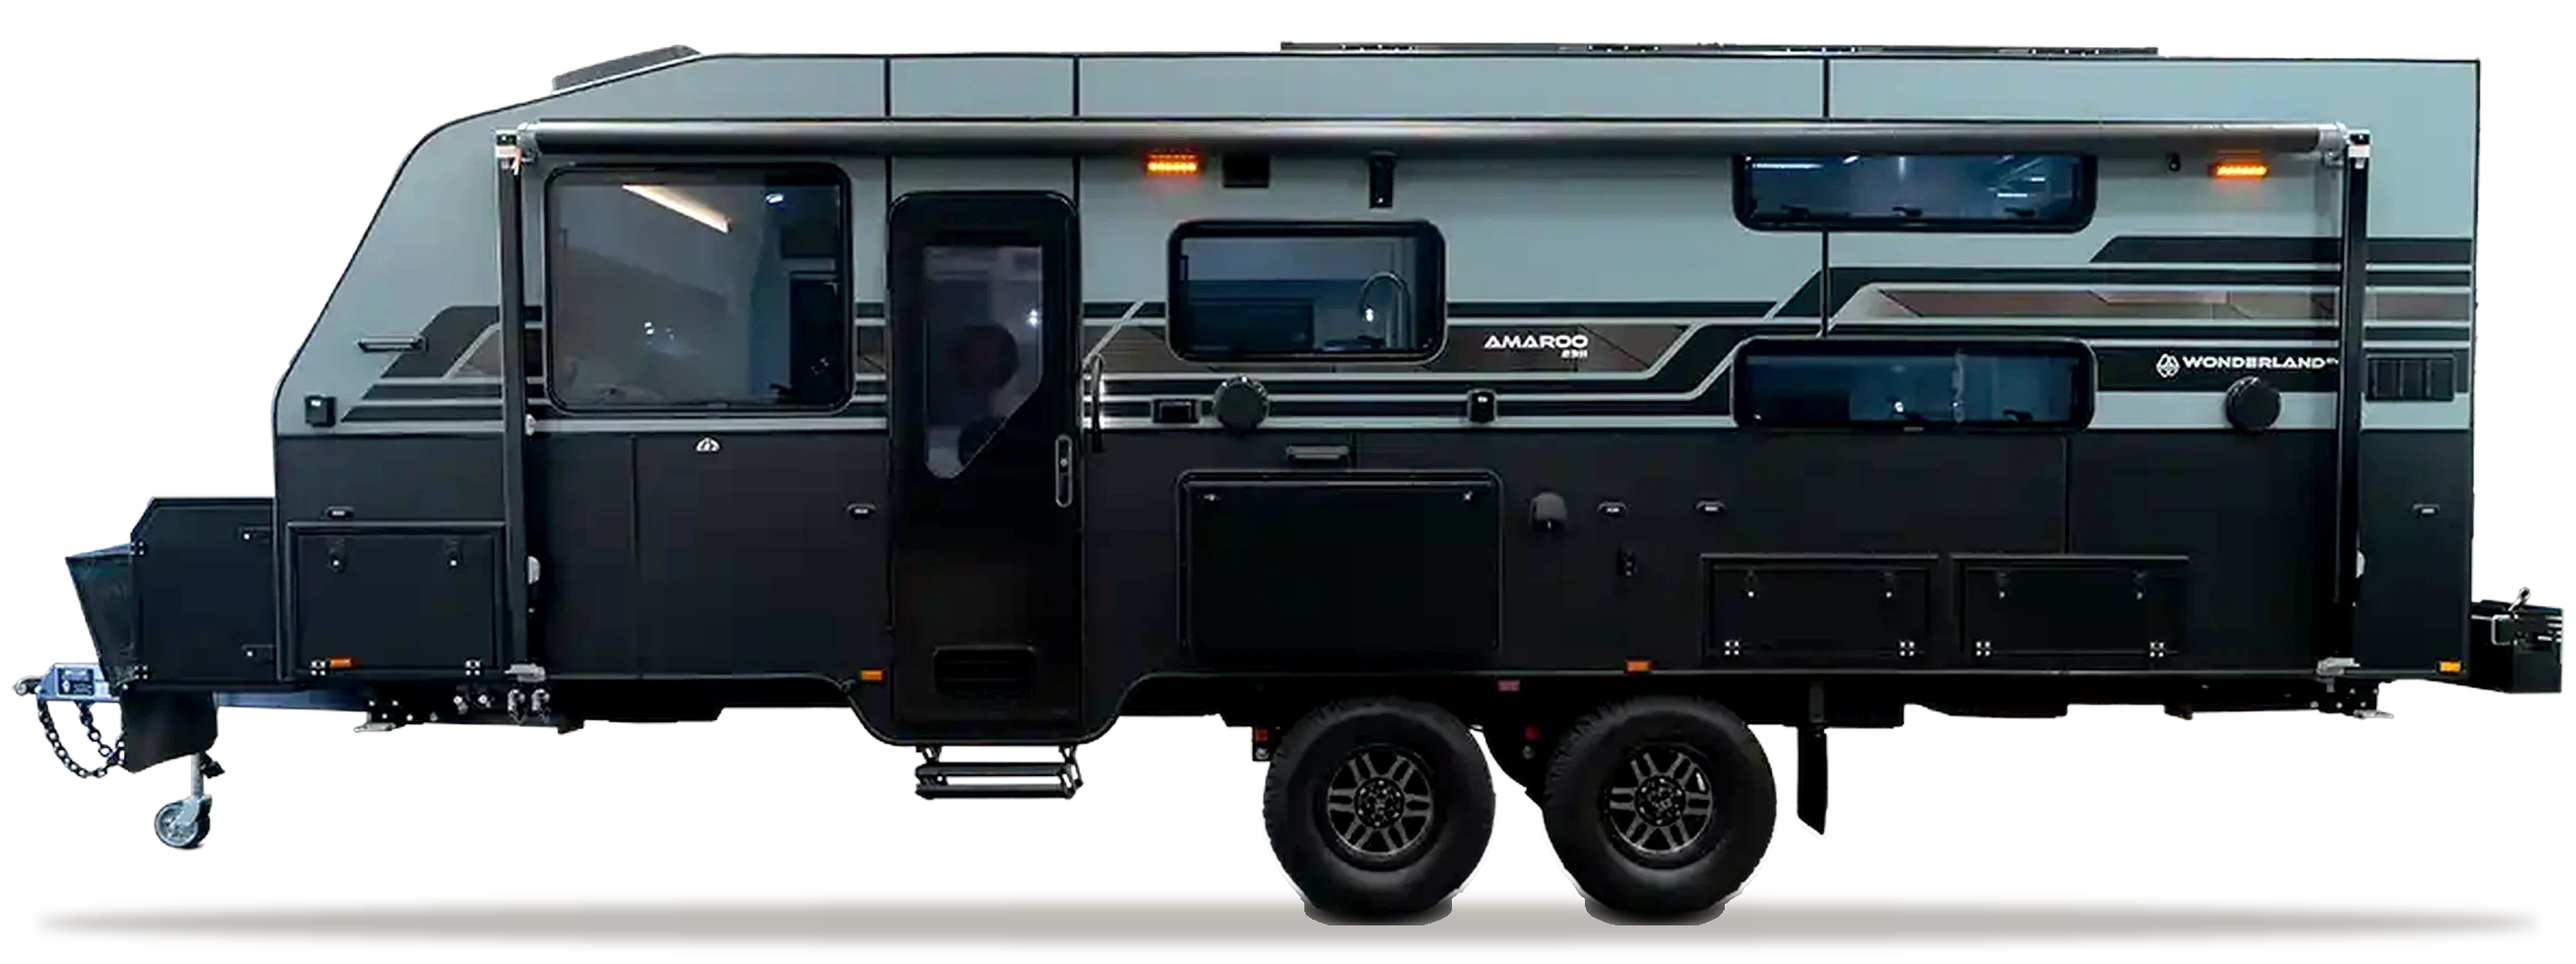
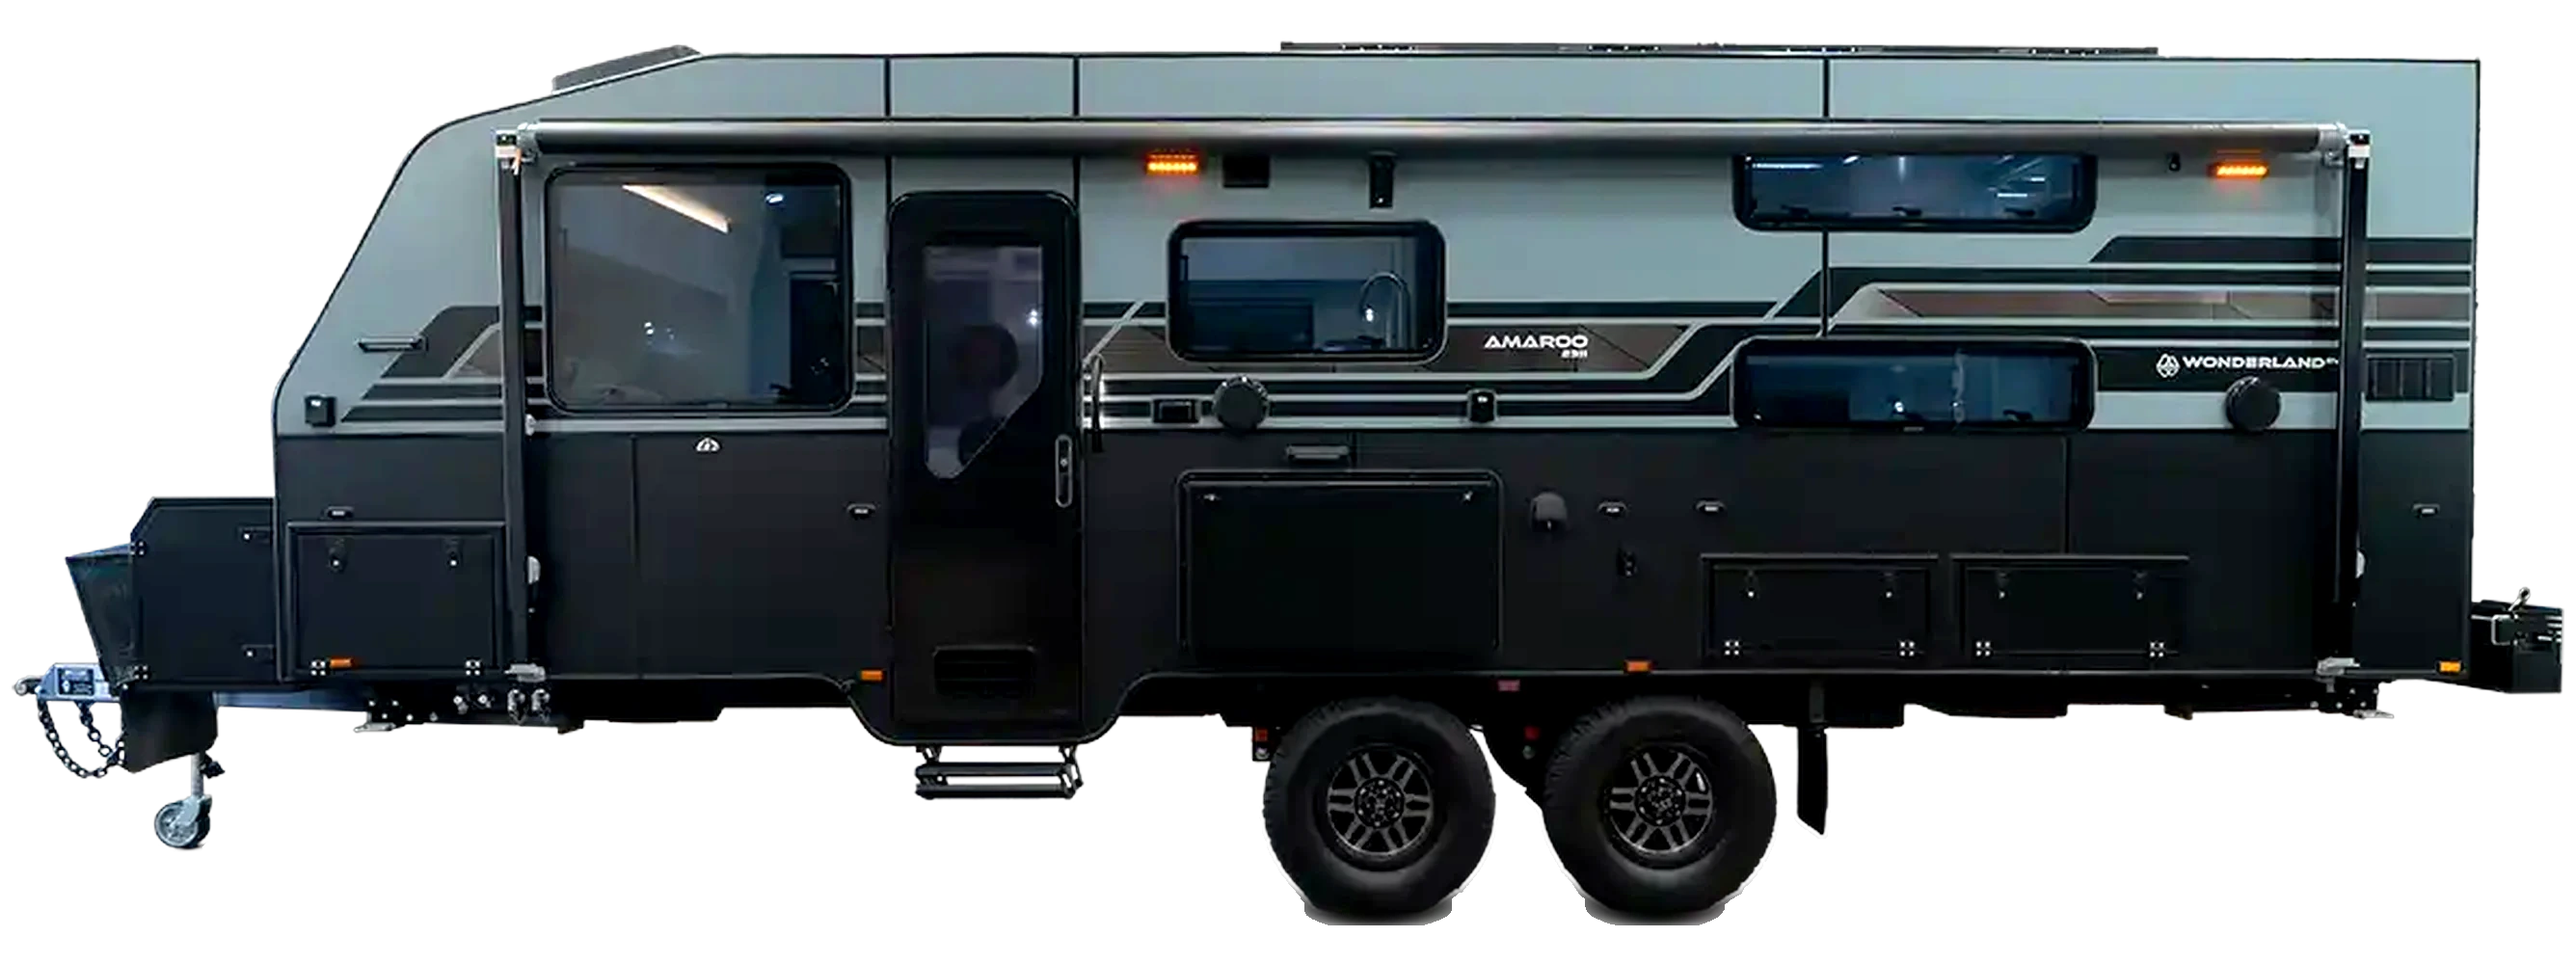
Remove the van shadows
Back to the state before them: de-hazed, graded by group, no shadow of
any kind under the vans. Verified -- nothing renders below the tyre line
in any of the four.

Cache-buster to v=4 rather than back to v=2, since browsers have already
taken v=3 with the shadow in it and reusing an old number would serve
them the stale file.

Changed region(s): [[0.0, 0.93, 0.994, 0.992]]

diff --git a/home.html b/home.html
@@ -6,12 +6,12 @@
 <title>Wonderland RV — Luxury Off-Road Caravans</title>
 <meta name="description" content="Wonderland RV's bespoke off-road caravans combine the comforts of a boutique hotel with the freedom to explore Australia's rugged beauty.">
 <link rel="icon" href="assets/img/wonderland-rv-logo.png">
-<link rel="stylesheet" href="assets/css/styles.css?v=281">
-<link rel="stylesheet" href="assets/css/type-compact.css?v=281">
-<link rel="stylesheet" href="assets/css/ambassadors.css?v=281">
-<link rel="stylesheet" href="assets/css/homepage.css?v=281">
-<link rel="stylesheet" href="assets/css/range-viewer.css?v=281">
-<link rel="stylesheet" href="assets/css/home-order.css?v=281">
+<link rel="stylesheet" href="assets/css/styles.css?v=282">
+<link rel="stylesheet" href="assets/css/type-compact.css?v=282">
+<link rel="stylesheet" href="assets/css/ambassadors.css?v=282">
+<link rel="stylesheet" href="assets/css/homepage.css?v=282">
+<link rel="stylesheet" href="assets/css/range-viewer.css?v=282">
+<link rel="stylesheet" href="assets/css/home-order.css?v=282">
 </head>
 <body class="home">
 
@@ -479,7 +479,7 @@
   <div class="amb-more-strip" tabindex="0" aria-label="The Wonderlanders">
     <div class="wl-card">
       <div class="wl-card-media ph" data-ph="AMBASSADOR PHOTO — The Feel Good Family">
-        <img src="assets/img/ambassadors/feel-good-family.jpg?v=281" alt="Katie, Paul and Jasper of The Feel Good Family with their Wonderland RV Solara" onload="this.parentElement.classList.remove('ph')" onerror="this.remove()">
+        <img src="assets/img/ambassadors/feel-good-family.jpg?v=282" alt="Katie, Paul and Jasper of The Feel Good Family with their Wonderland RV Solara" onload="this.parentElement.classList.remove('ph')" onerror="this.remove()">
       </div>
       <div class="wl-card-name">
         <div class="wl-card-head">
@@ -538,7 +538,7 @@
     </div>
     <div class="wl-card">
       <div class="wl-card-media ph" data-ph="AMBASSADOR PHOTO — The Kiwi Van Life">
-        <img src="assets/img/ambassadors/kiwi-van-life.jpg?v=281" alt="Rorden, Cass, Jed and Lexi of The Kiwi Van Life" onload="this.parentElement.classList.remove('ph')" onerror="this.remove()">
+        <img src="assets/img/ambassadors/kiwi-van-life.jpg?v=282" alt="Rorden, Cass, Jed and Lexi of The Kiwi Van Life" onload="this.parentElement.classList.remove('ph')" onerror="this.remove()">
       </div>
       <div class="wl-card-name">
         <div class="wl-card-head">
@@ -996,14 +996,14 @@
   </div>
 </footer>
 
-<script src="assets/js/video-embed.js?v=281"></script>
-<script src="assets/js/home.js?v=281"></script>
-<script src="assets/js/reviews.js?v=281"></script>
-<script src="assets/js/footer.js?v=281"></script>
-<script src="assets/js/budget.js?v=281"></script>
-<script src="assets/js/faq.js?v=281"></script>
-<script src="assets/js/range-viewer.js?v=281"></script>
-<script src="assets/js/wl-strip.js?v=281"></script>
-<script src="assets/js/nav.js?v=281"></script>
+<script src="assets/js/video-embed.js?v=282"></script>
+<script src="assets/js/home.js?v=282"></script>
+<script src="assets/js/reviews.js?v=282"></script>
+<script src="assets/js/footer.js?v=282"></script>
+<script src="assets/js/budget.js?v=282"></script>
+<script src="assets/js/faq.js?v=282"></script>
+<script src="assets/js/range-viewer.js?v=282"></script>
+<script src="assets/js/wl-strip.js?v=282"></script>
+<script src="assets/js/nav.js?v=282"></script>
 </body>
 </html>

diff --git a/assets/js/range-viewer.js b/assets/js/range-viewer.js
@@ -86,7 +86,7 @@
          twice now, first to drop the baked-in shadows and then to crop the
          empty canvas those shadows had been reserving, and nothing else
          would tell a browser holding the old ones to fetch them again */
-      var src = "assets/img/home/range/" + m.id + "-side.webp?v=3";
+      var src = "assets/img/home/range/" + m.id + "-side.webp?v=4";
       return '<div class="rvx-van" data-k="' + k + '">' +
         '<img src="' + src + '" alt="' + m.name + '" onerror="this.remove();">' +
       '</div>';
